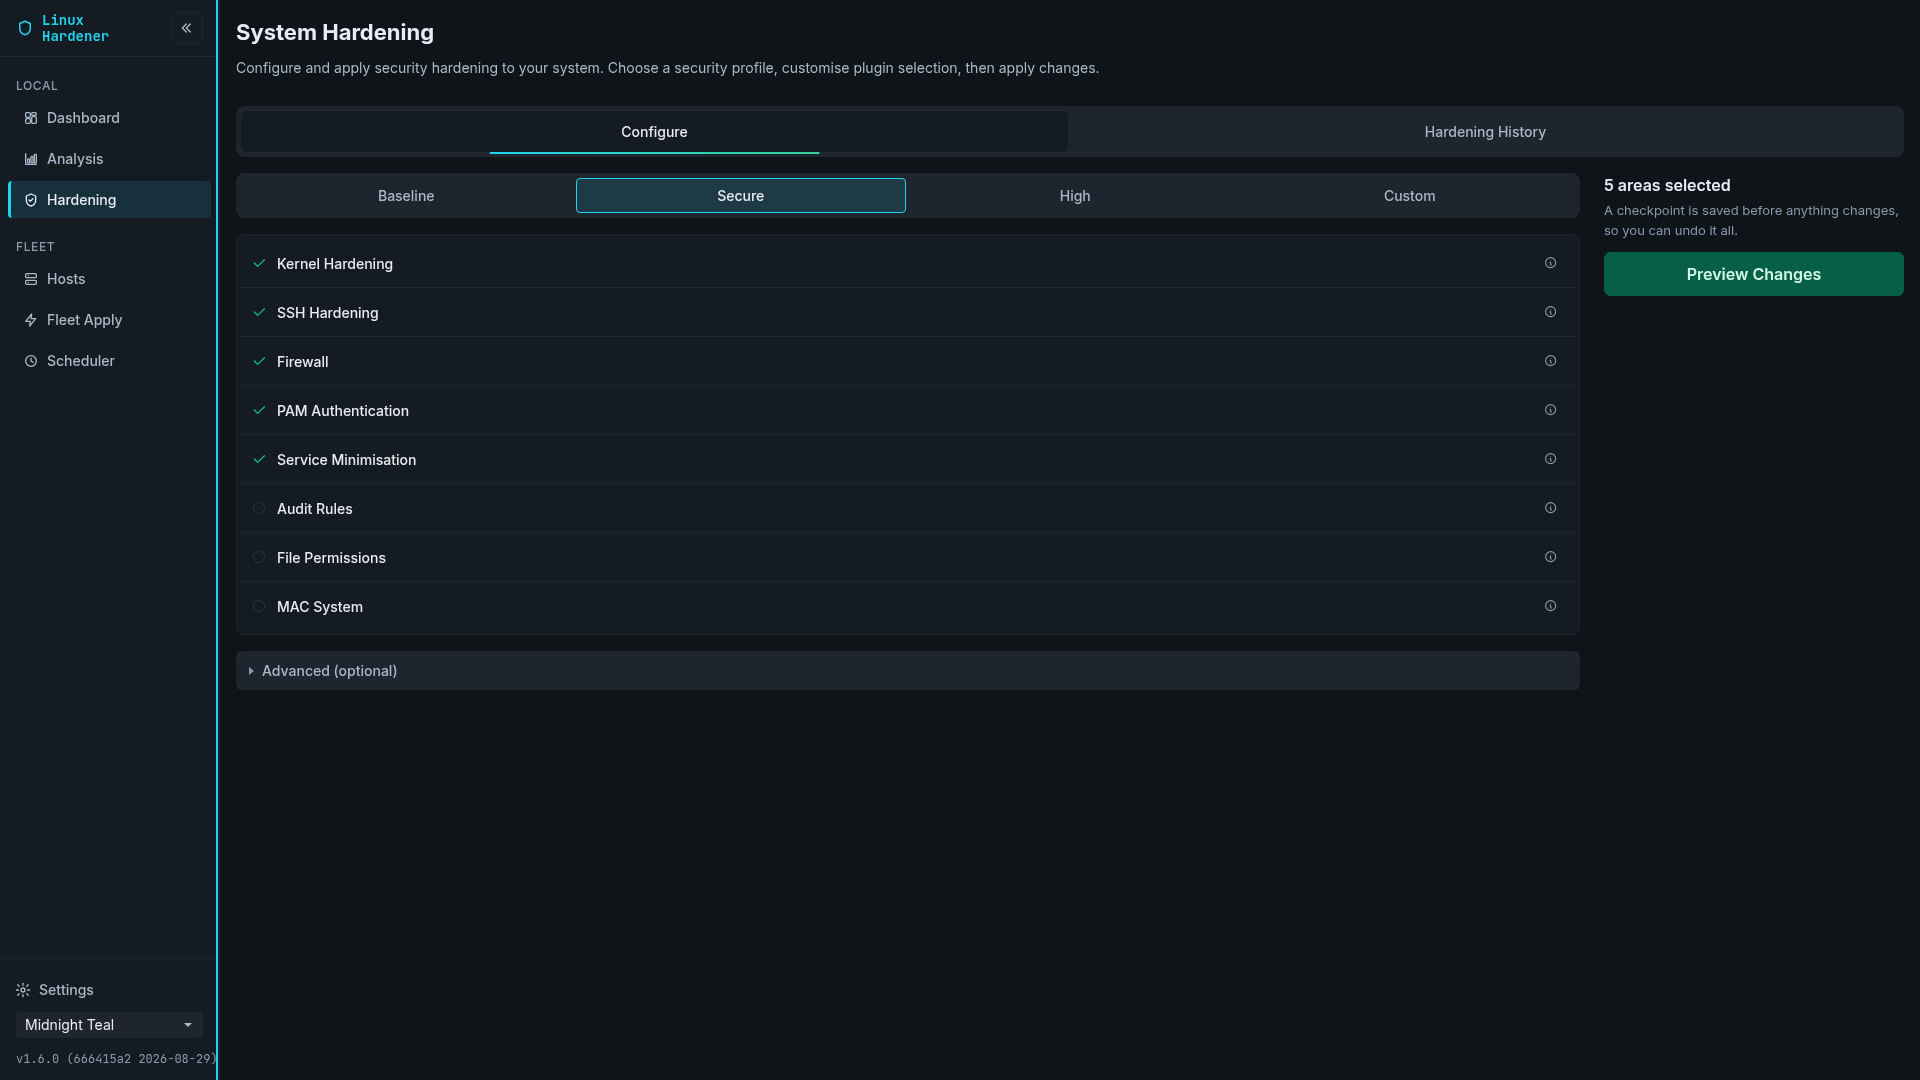
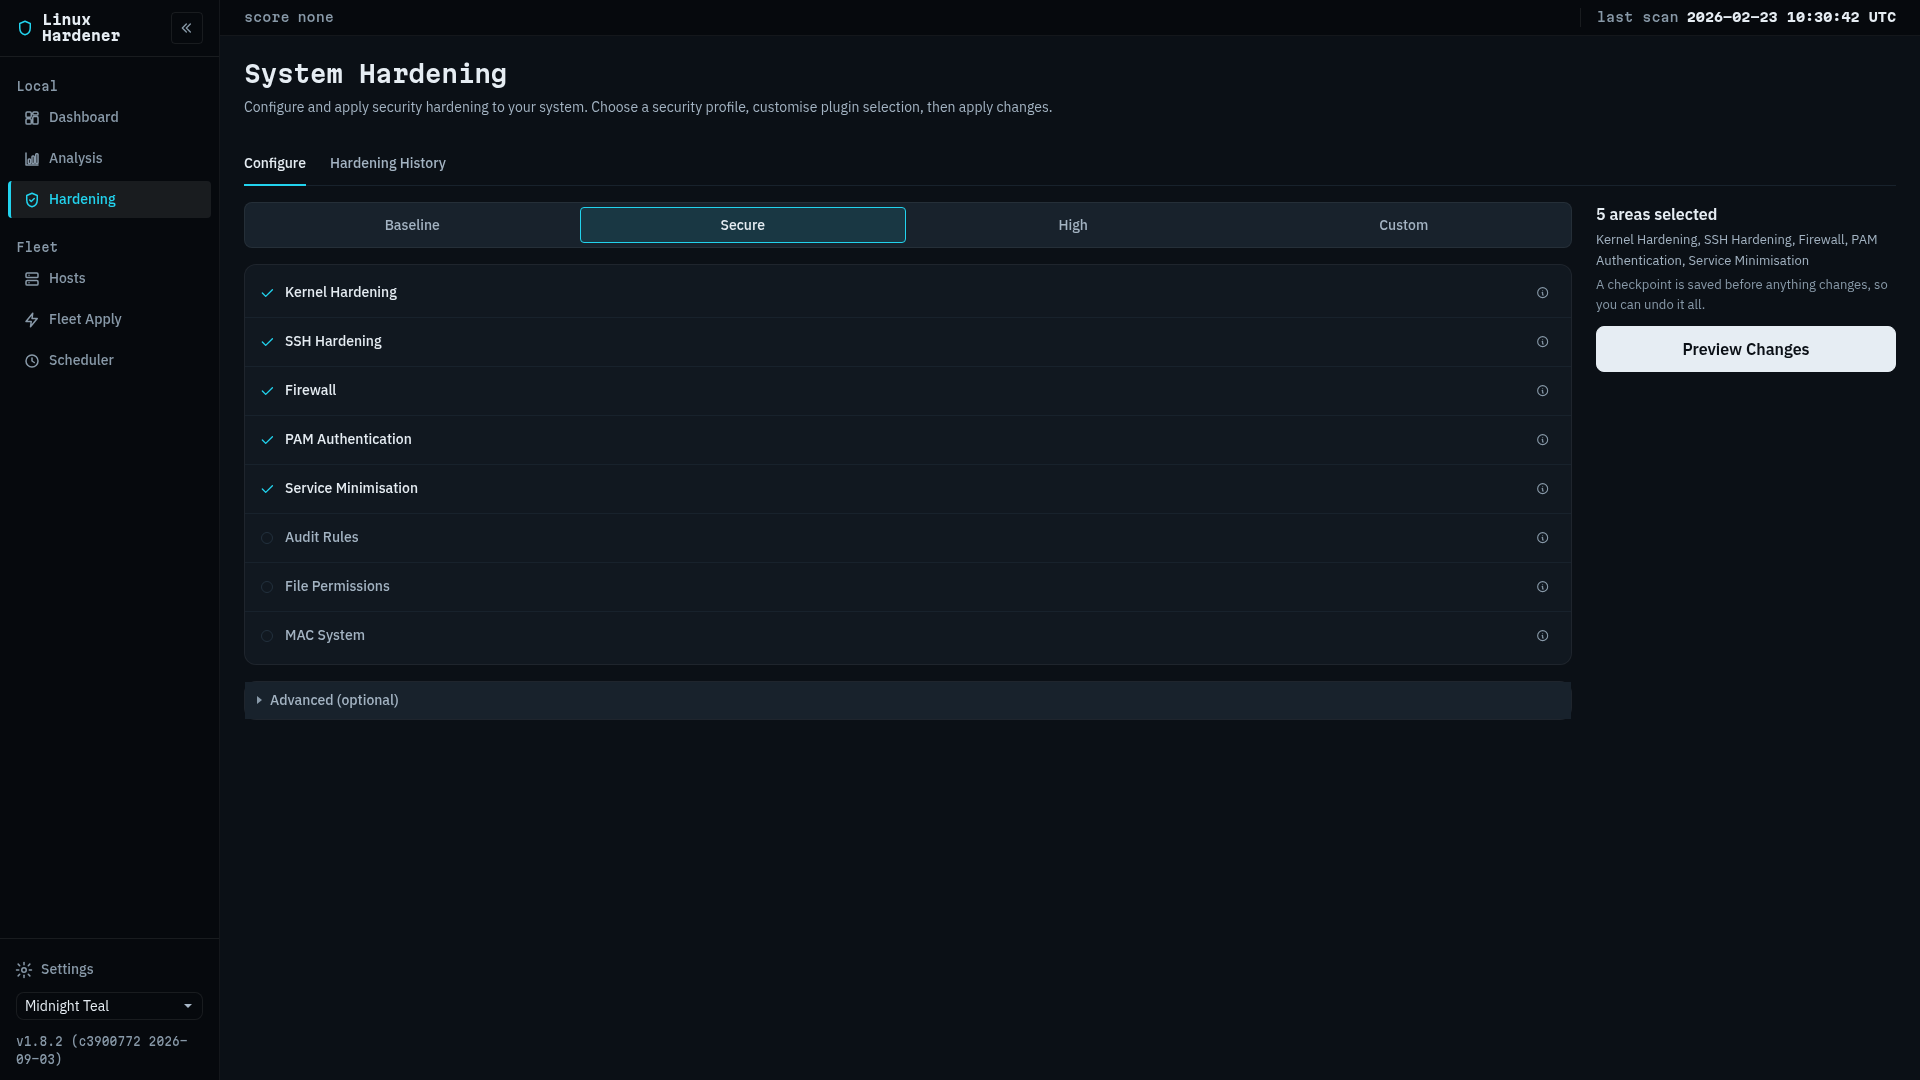
docs(screenshots): the 23 documented states on the console redesign
All 23 PNGs under docs/assets/screenshots re-captured at 1920x1080 on
Midnight Teal against the mock fixture, from a fresh trunk build of
feat/gui-console, every state reaching its ready selector. The README
caption names the version and date. Last-updated stamps refreshed on the
four documents the count corrections touched.

diff --git a/README.md b/README.md
@@ -211,7 +211,7 @@ The finding prints the command that copies the file into `/etc` for you. See the
   <img src="docs/assets/screenshots/analysis-findings.png" alt="Security Analysis: findings grouped by severity" width="49%">
 </p>
 
-<p align="center"><sub>The real Leptos/WASM interface on the Midnight Teal theme, captured at 1.6.0 (2026-08-29) against the test fixture rather than a live scan, which is why the hosts read <code>web-01</code> and <code>db-01</code>. The build string in the footer names the commit the bundle was built from, which necessarily precedes the tag: committing the images changes the commit, so a screenshot cannot display the hash of the commit that carries it. The fixture is <code>gui-tests/tauri-mock.js</code>, held to the Rust types by <code>validate_gui_mock_fixtures.py</code> and driven by the 187-case Playwright suite, so these are reproducible on any machine and contain no data from anyone's system. The Hosts and Scheduler screens are in <a href="docs/assets/screenshots/">docs/assets/screenshots</a>, along with the states these five do not reach: the finding detail expander, the per-control compliance view, the checkpoint timeline and its rollback confirmation, the expanded host panel, and the two Scheduler notes that appear only while scheduled scanning is off.</sub></p>
+<p align="center"><sub>The real Leptos/WASM interface on the Midnight Teal theme, captured at 1.8.2 (2026-09-03, the console redesign) against the test fixture rather than a live scan, which is why the hosts read <code>web-01</code> and <code>db-01</code>. The build string in the footer names the commit the bundle was built from, which necessarily precedes the tag: committing the images changes the commit, so a screenshot cannot display the hash of the commit that carries it. The fixture is <code>gui-tests/tauri-mock.js</code>, held to the Rust types by <code>validate_gui_mock_fixtures.py</code> and driven by the 187-case Playwright suite, so these are reproducible on any machine and contain no data from anyone's system. The Hosts and Scheduler screens are in <a href="docs/assets/screenshots/">docs/assets/screenshots</a>, along with the states these five do not reach: the finding detail expander, the per-control compliance view, the checkpoint timeline and its rollback confirmation, the expanded host panel, and the two Scheduler notes that appear only while scheduled scanning is off.</sub></p>
 
 ---
 
@@ -550,4 +550,4 @@ Drawing on [Lynis](https://cisofy.com/lynis/),
 **Contact**: tidynest@proton.me
 **Repository**: https://github.com/tidynest/linux-hardener
 
-**Last Updated**: 2026-09-02
+**Last Updated**: 2026-09-03

diff --git a/docs/reference/distribution-validation.md b/docs/reference/distribution-validation.md
@@ -1,6 +1,6 @@
 # Distribution Validation Results
 
-**Last Updated**: 2026-09-02
+**Last Updated**: 2026-09-03
 
 This document tracks validation testing across supported Linux distributions.
 
@@ -1397,4 +1397,4 @@ test-results/gui/
 
 ---
 
-**Last Updated**: 2026-09-02
+**Last Updated**: 2026-09-03

diff --git a/docs/reference/evidence-ledger.md b/docs/reference/evidence-ledger.md
@@ -1,6 +1,6 @@
 # Evidence Ledger
 
-**Last Updated**: 2026-09-02
+**Last Updated**: 2026-09-03
 
 This release does not claim to be proven bug-free. It claims something narrower
 and checkable: every capability it advertises carries a named piece of evidence

diff --git a/scripts/README.md b/scripts/README.md
@@ -1,6 +1,6 @@
 # Project Scripts
 
-**Last Updated**: 2026-09-02
+**Last Updated**: 2026-09-03
 
 This directory contains utility scripts for the Linux Hardening Tool project.
 
